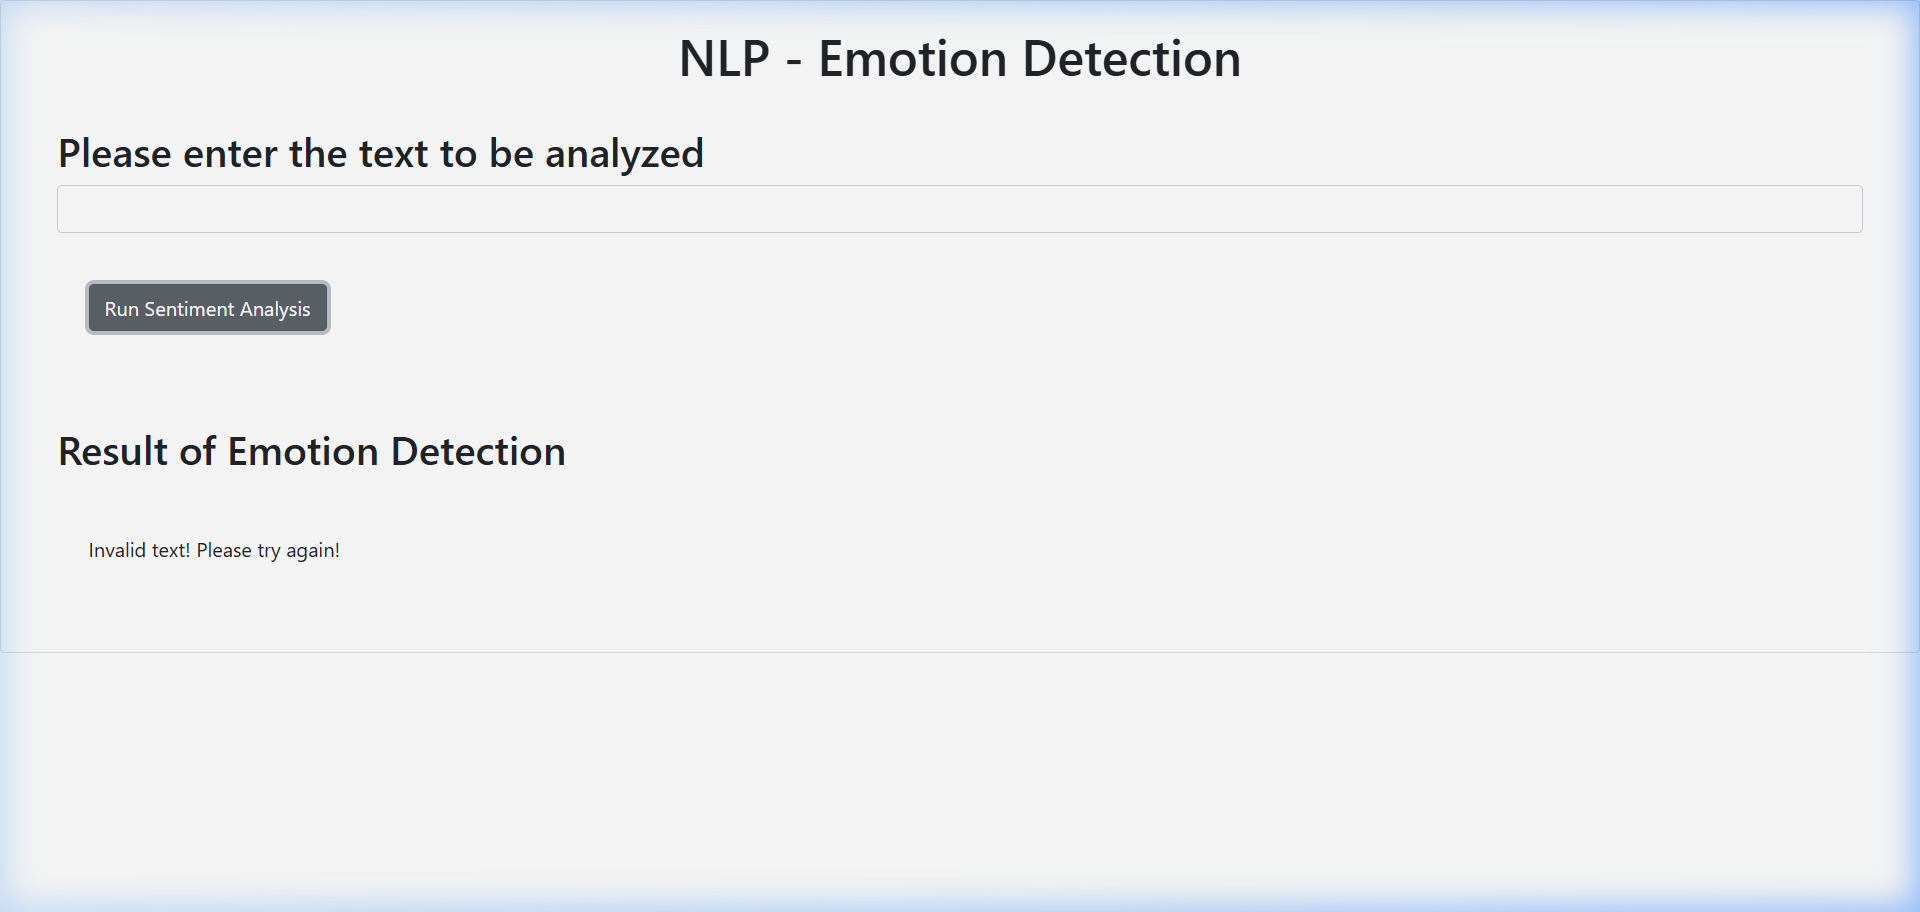
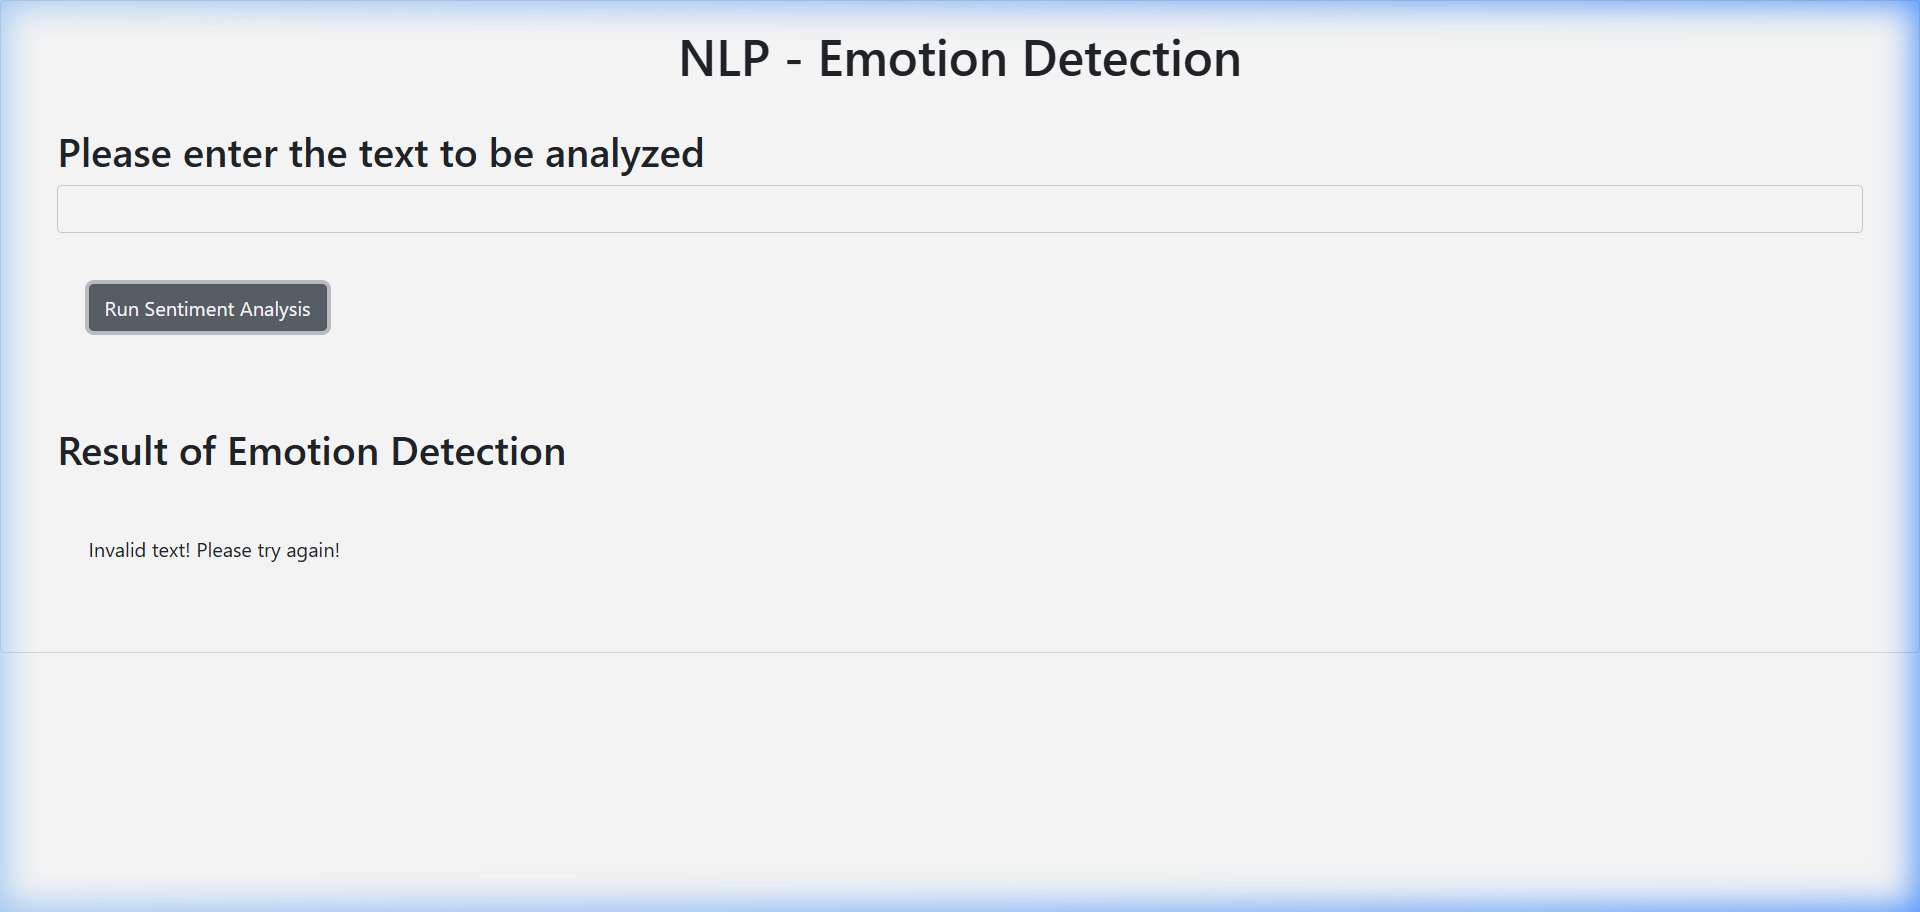
Fix: use text_to_analyse parameter, add answer files for all tasks

Changed region(s): [[0.4375, 0.0, 1.0, 1.0]]

diff --git a/answers/8a_server_modified.py b/answers/8a_server_modified.py
@@ -1,0 +1,50 @@
+"""
+Flask server for Emotion Detection web application.
+Task 8a: Server with static code analysis (pylint 10/10).
+"""
+from flask import Flask, render_template, request
+from EmotionDetection.emotion_detection import emotion_detector
+
+app = Flask("Emotion Detector")
+
+
+@app.route("/emotionDetector")
+def emo_detector():
+    """
+    Analyzes the input text received from request arguments and returns
+    a formatted string of emotion scores and dominant emotion.
+    """
+    text_to_analyze = request.args.get('textToAnalyze')
+
+    if not text_to_analyze or text_to_analyze.strip() == "":
+        return "Invalid text! Please try again!"
+
+    response = emotion_detector(text_to_analyze)
+
+    dominant_emotion = response.get('dominant_emotion')
+    if dominant_emotion is None:
+        return "Invalid text! Please try again!"
+
+    anger = response['anger']
+    disgust = response['disgust']
+    fear = response['fear']
+    joy = response['joy']
+    sadness = response['sadness']
+
+    return (
+        f"For the given statement, the system response is 'anger': {anger}, "
+        f"'disgust': {disgust}, 'fear': {fear}, 'joy': {joy} and 'sadness': {sadness}. "
+        f"The dominant emotion is {dominant_emotion}."
+    )
+
+
+@app.route("/")
+def render_index_page():
+    """
+    Renders the main application index.html page.
+    """
+    return render_template('index.html')
+
+
+if __name__ == "__main__":
+    app.run(host="0.0.0.0", port=5000)

diff --git a/answers/7b_error_handling_server.py b/answers/7b_error_handling_server.py
@@ -1,0 +1,50 @@
+"""
+Flask server for Emotion Detection web application.
+Task 7b: Updated with blank input error handling.
+"""
+from flask import Flask, render_template, request
+from EmotionDetection.emotion_detection import emotion_detector
+
+app = Flask("Emotion Detector")
+
+
+@app.route("/emotionDetector")
+def emo_detector():
+    """
+    Analyzes the input text received from request arguments and returns
+    a formatted string of emotion scores and dominant emotion.
+    """
+    text_to_analyze = request.args.get('textToAnalyze')
+
+    if not text_to_analyze or text_to_analyze.strip() == "":
+        return "Invalid text! Please try again!"
+
+    response = emotion_detector(text_to_analyze)
+
+    dominant_emotion = response.get('dominant_emotion')
+    if dominant_emotion is None:
+        return "Invalid text! Please try again!"
+
+    anger = response['anger']
+    disgust = response['disgust']
+    fear = response['fear']
+    joy = response['joy']
+    sadness = response['sadness']
+
+    return (
+        f"For the given statement, the system response is 'anger': {anger}, "
+        f"'disgust': {disgust}, 'fear': {fear}, 'joy': {joy} and 'sadness': {sadness}. "
+        f"The dominant emotion is {dominant_emotion}."
+    )
+
+
+@app.route("/")
+def render_index_page():
+    """
+    Renders the main application index.html page.
+    """
+    return render_template('index.html')
+
+
+if __name__ == "__main__":
+    app.run(host="0.0.0.0", port=5000)

diff --git a/answers/7a_error_handling_function.py b/answers/7a_error_handling_function.py
@@ -1,0 +1,44 @@
+"""
+Emotion Detection module using Watson NLP EmotionPredict service.
+Task 7a: Updated with status code 400 error handling.
+"""
+import json
+import requests
+
+
+def emotion_detector(text_to_analyse):
+    """
+    Analyzes the input text using Watson NLP EmotionPredict API
+    and returns a dictionary with emotion scores and dominant emotion.
+    Returns None values for all fields if status code is 400.
+    """
+    url = (
+        'https://sn-watson-emotion.labs.skills.network/v1/'
+        'watson.runtime.nlp.v1/NlpService/EmotionPredict'
+    )
+    headers = {"grpc-metadata-mm-model-id": "emotion_aggregated-workflow_lang_en_stock"}
+    myobj = {"raw_document": {"text": text_to_analyse}}
+    response = requests.post(url, json=myobj, headers=headers, timeout=10)
+
+    if response.status_code == 400:
+        return {
+            'anger': None,
+            'disgust': None,
+            'fear': None,
+            'joy': None,
+            'sadness': None,
+            'dominant_emotion': None
+        }
+
+    formatted_response = json.loads(response.text)
+    emotions = formatted_response['emotionPredictions'][0]['emotion']
+    dominant_emotion = max(emotions, key=emotions.get)
+
+    return {
+        'anger': emotions['anger'],
+        'disgust': emotions['disgust'],
+        'fear': emotions['fear'],
+        'joy': emotions['joy'],
+        'sadness': emotions['sadness'],
+        'dominant_emotion': dominant_emotion
+    }

diff --git a/answers/6a_server.py b/answers/6a_server.py
@@ -1,0 +1,43 @@
+"""
+Flask server for Emotion Detection web application.
+Task 6a: Flask deployment of the emotion detection application.
+"""
+from flask import Flask, render_template, request
+from EmotionDetection.emotion_detection import emotion_detector
+
+app = Flask("Emotion Detector")
+
+
+@app.route("/emotionDetector")
+def emo_detector():
+    """
+    Analyzes the input text received from request arguments and returns
+    a formatted string of emotion scores and dominant emotion.
+    """
+    text_to_analyze = request.args.get('textToAnalyze')
+    response = emotion_detector(text_to_analyze)
+
+    anger = response['anger']
+    disgust = response['disgust']
+    fear = response['fear']
+    joy = response['joy']
+    sadness = response['sadness']
+    dominant_emotion = response['dominant_emotion']
+
+    return (
+        f"For the given statement, the system response is 'anger': {anger}, "
+        f"'disgust': {disgust}, 'fear': {fear}, 'joy': {joy} and 'sadness': {sadness}. "
+        f"The dominant emotion is {dominant_emotion}."
+    )
+
+
+@app.route("/")
+def render_index_page():
+    """
+    Renders the main application index.html page.
+    """
+    return render_template('index.html')
+
+
+if __name__ == "__main__":
+    app.run(host="0.0.0.0", port=5000)

diff --git a/answers/5a_unit_testing.py b/answers/5a_unit_testing.py
@@ -1,0 +1,39 @@
+"""
+Unit tests for the EmotionDetection package.
+Task 5a: Unit tests for all 5 emotions.
+"""
+import unittest
+from EmotionDetection.emotion_detection import emotion_detector
+
+
+class TestEmotionDetector(unittest.TestCase):
+    """
+    Test cases for emotion_detector function.
+    """
+    def test_emotion_detector(self):
+        """
+        Tests the 5 core emotions and their dominant emotions.
+        """
+        # Test Joy
+        result_1 = emotion_detector('I am glad this happened')
+        self.assertEqual(result_1['dominant_emotion'], 'joy')
+
+        # Test Anger
+        result_2 = emotion_detector('I am really mad about this')
+        self.assertEqual(result_2['dominant_emotion'], 'anger')
+
+        # Test Disgust
+        result_3 = emotion_detector('I feel disgusted just hearing about this')
+        self.assertEqual(result_3['dominant_emotion'], 'disgust')
+
+        # Test Sadness
+        result_4 = emotion_detector('I am so sad about this')
+        self.assertEqual(result_4['dominant_emotion'], 'sadness')
+
+        # Test Fear
+        result_5 = emotion_detector('I am really afraid that this will happen')
+        self.assertEqual(result_5['dominant_emotion'], 'fear')
+
+
+if __name__ == '__main__':
+    unittest.main()

diff --git a/EmotionDetection/emotion_detection.py b/EmotionDetection/emotion_detection.py
@@ -2,34 +2,21 @@
 Emotion Detection module using Watson NLP EmotionPredict service.
 """
 import json
-import os
 import requests
 
 
-def emotion_detector(text_to_analyze):
+def emotion_detector(text_to_analyse):
     """
     Analyzes the input text using Watson NLP EmotionPredict API
     and returns a dictionary with emotion scores and dominant emotion.
     """
-    url = os.environ.get(
-        'WATSON_EMOTION_URL',
+    url = (
         'https://sn-watson-emotion.labs.skills.network/v1/'
         'watson.runtime.nlp.v1/NlpService/EmotionPredict'
     )
     headers = {"grpc-metadata-mm-model-id": "emotion_aggregated-workflow_lang_en_stock"}
-    myobj = {"raw_document": {"text": text_to_analyze}}
-
-    try:
-        response = requests.post(url, json=myobj, headers=headers, timeout=10)
-    except requests.exceptions.RequestException:
-        return {
-            'anger': None,
-            'disgust': None,
-            'fear': None,
-            'joy': None,
-            'sadness': None,
-            'dominant_emotion': None
-        }
+    myobj = {"raw_document": {"text": text_to_analyse}}
+    response = requests.post(url, json=myobj, headers=headers, timeout=10)
 
     if response.status_code == 400:
         return {

diff --git a/answers/3a_output_formatting.py b/answers/3a_output_formatting.py
@@ -1,0 +1,31 @@
+"""
+Emotion Detection module using Watson NLP EmotionPredict service.
+Task 3a: Modified to return formatted dictionary with dominant emotion.
+"""
+import json
+import requests
+
+
+def emotion_detector(text_to_analyse):
+    """
+    Analyzes the input text using Watson NLP EmotionPredict API
+    and returns a dictionary with emotion scores and dominant emotion.
+    """
+    url = (
+        'https://sn-watson-emotion.labs.skills.network/v1/'
+        'watson.runtime.nlp.v1/NlpService/EmotionPredict'
+    )
+    headers = {"grpc-metadata-mm-model-id": "emotion_aggregated-workflow_lang_en_stock"}
+    myobj = {"raw_document": {"text": text_to_analyse}}
+    response = requests.post(url, json=myobj, headers=headers, timeout=10)
+    formatted_response = json.loads(response.text)
+    emotions = formatted_response['emotionPredictions'][0]['emotion']
+    dominant_emotion = max(emotions, key=emotions.get)
+    return {
+        'anger': emotions['anger'],
+        'disgust': emotions['disgust'],
+        'fear': emotions['fear'],
+        'joy': emotions['joy'],
+        'sadness': emotions['sadness'],
+        'dominant_emotion': dominant_emotion
+    }

diff --git a/answers/2a_emotion_detection.py b/answers/2a_emotion_detection.py
@@ -1,0 +1,20 @@
+"""
+Emotion Detection module using Watson NLP EmotionPredict service.
+Task 2a: Initial function - returns raw response text.
+"""
+import requests
+
+
+def emotion_detector(text_to_analyse):
+    """
+    Analyzes the input text using Watson NLP EmotionPredict API.
+    Returns the raw response text.
+    """
+    url = (
+        'https://sn-watson-emotion.labs.skills.network/v1/'
+        'watson.runtime.nlp.v1/NlpService/EmotionPredict'
+    )
+    headers = {"grpc-metadata-mm-model-id": "emotion_aggregated-workflow_lang_en_stock"}
+    myobj = {"raw_document": {"text": text_to_analyse}}
+    response = requests.post(url, json=myobj, headers=headers, timeout=10)
+    return response.text

diff --git a/answers/4a___init__.py b/answers/4a___init__.py
@@ -1,0 +1,5 @@
+"""
+EmotionDetection package initialization.
+Task 4a: Imports emotion_detector from the emotion_detection module.
+"""
+from .emotion_detection import emotion_detector
